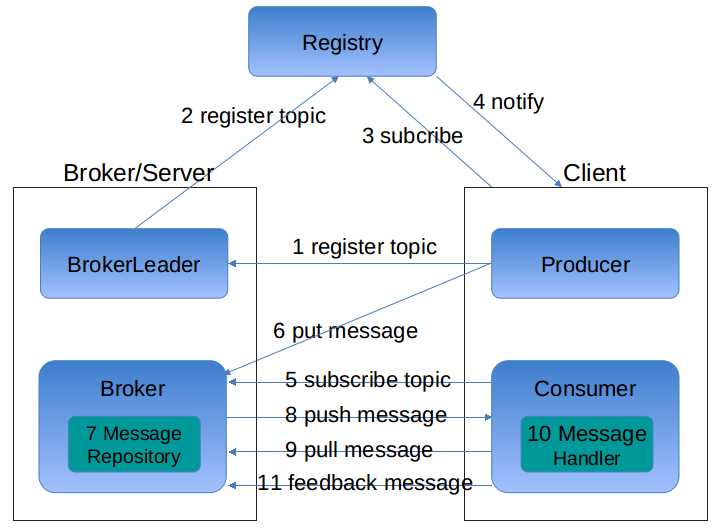
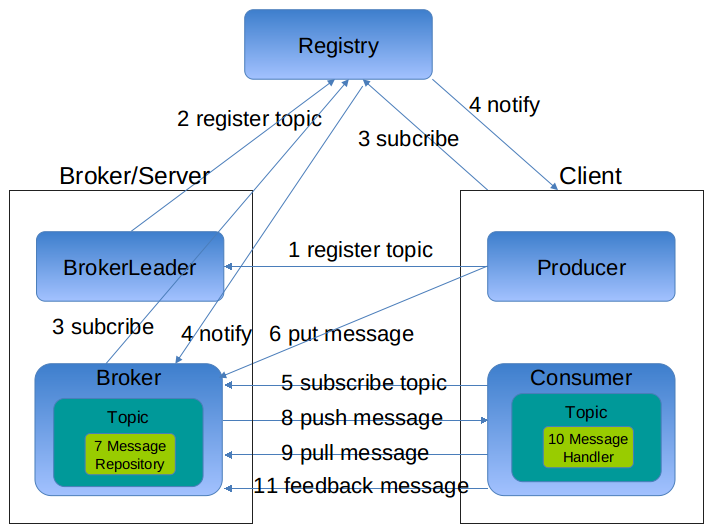
完善mq文档

diff --git a/doc/mq/registry.md b/doc/mq/registry.md
@@ -1,0 +1,69 @@
+# 注册中心
+使用注册中心来存储与分发主题分配信息.
+
+就2个功能:
+
+1. 主题注册, 是`Producer`通过`BrokerLeader`向注册中心注册主题, 注册中心会将主题分配给broker节点
+
+2. 主题发现, 是`Broker`/`Client`通过向注册中心订阅主题分配, 来发现有哪些主题, 这些主题分配给哪个broker节点, 以便后续收发消息.
+
+# 类族
+
+```
+IMqDiscovery -- 主题发现
+    ZkMqDiscovery -- 基于zookeeper的主题发现
+    IMqRegistry -- 主题注册
+        ZkMqRegistry -- 基于zookeeper的主题注册
+```
+
+# 主题注册
+
+## 注册主题
+`Producer`通过`BrokerLeader`向注册中心注册主题, 注册中心会将主题分配给broker节点.
+
+其中broker节点, 就是服务`IMqBrokerService`的提供者节点
+
+## 主题分配的存储
+
+系统默认使用zookeeper实现的注册中心
+
+主题存储在zk中的目录结构如下:
+
+```
+jksoa-mq
+    topic2broker # 数据是主题分配信息的json
+```
+
+# 主题发现
+
+## 监听主题分配情况
+
+使用监听器 `IMqDiscoveryListener` 来向注册中心订阅主题分配的变化
+
+client使用 `BrokerConnectionHub` 来实现 `IMqDiscoveryListener`, 来监听主题变化, 并且管理与mq server的连接
+
+broker使用`MqBrokerService` 来实现`IMqDiscoveryListener`, 来监听主题变化, 并且初始化分配给当前broker节点的主题相关的存储.
+
+# 扩展注册中心
+
+## 实现 `IMqRegistry` 接口
+
+目前只支持zookeeper实现的注册中心, 可扩展为 Etcd 或 Consul 实现的注册中心
+
+## 2. 在`mq-registry.yaml`配置注册中心名+实现类
+
+```
+# 注册中心实现
+zk: net.jkcode.jksoa.mq.registry.zk.ZkMqRegistry
+```
+
+## 3. 通过策略名来引用策略
+
+```
+val registry: IMqRegistry = IMqRegistry.instance("注册中心名")
+// 主题发现, 获得主题的提供者节点url
+val urls = registry.discover("net.jkcode.jksoa.mq.example.ISimpleService")
+// 主题注册, 注册主题提供者节点url
+val url = Url("netty", "192.168.0.1", 8080, "net.jkcode.jksoa.mq.example.ISimpleService", mapOf("weight" to 1))
+registry.register(url)
+```

diff --git a/doc/mq/message.md b/doc/mq/message.md
@@ -1,0 +1,37 @@
+# 消息
+
+主要属性
+
+1. `topic` -- 消息主题
+2. `data` -- 消息数据
+3. `groupIds` -- 消费者分组id的比特集, 代表多个消费者分组id
+4. `subjectId` -- 业务实体编号, 如订单号, 用于标识一系列的顺序消息
+5. `id` -- 消息id, 但只在broker端保存时生成, 保证在同一个topic下有序
+
+```
+package net.jkcode.jksoa.mq.common
+
+import java.io.Serializable
+import java.util.*
+
+/**
+ * 消息
+ *    id在broker端保存时生成, 保证在同一个topic下有序
+ * @author shijianhang<772910474@qq.com>
+ * @date 2019-01-09 8:54 PM
+ */
+data class Message(public val topic: String, // 主题
+                   public val data: Any?, // 数据
+                   public val groupIds: BitSet = BitSet(), // 分组id
+                   public val subjectId: Long = 0 // 业务实体编号, 如订单号, 用于标识一系列的顺序消息
+): Serializable {
+
+    /**
+     * 消息id, 但只在broker端保存时生成, 保证在同一个topic下有序
+     *    对producer是无用的, 对broker+consumer有用
+     */
+    public var id: Long = 0
+        protected set
+
+}
+```

diff --git a/doc/mq/mq-flow.md b/doc/mq/mq-flow.md
@@ -8,13 +8,19 @@
 
 2. `BrokerLeader`向注册中心注册主题, 注册中心会将主题分配给broker节点.
 
-3. client订阅注册中心
+3. `Broker`与`Client`订阅注册中心
 
-4. 注册中心向client推送最新的主题分配信息
+4. 注册中心向`Broker/`Client`推送最新的主题分配信息
+
+其中`Broker`节点发现有新的主题分配给自己的话, 则初始化该主题相关的消息存储
 
 ## 消息生成与消费流程
 
-5. `Consumer`向`Broker`订阅主题, 其中broker节点的路由是根据注册中心推送过来的主题分配信息来做的
+5. `Consumer`向`Broker`订阅主题
+
+其中broker节点的路由是根据注册中心推送过来的主题分配信息来做的
+
+同时, 添加绑定主题相关的消息处理者`MessageHandler`
 
 6. `Producer`请求`Broker`来生产消息, 其中broker节点的路由是根据注册中心推送过来的主题分配信息来做的
 
